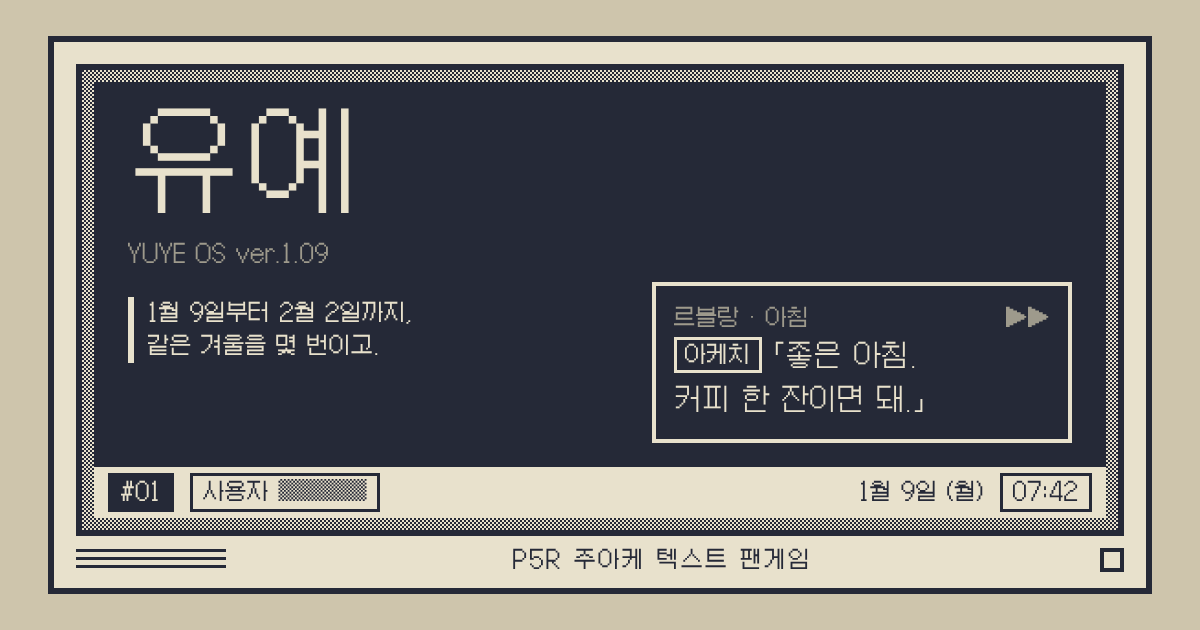
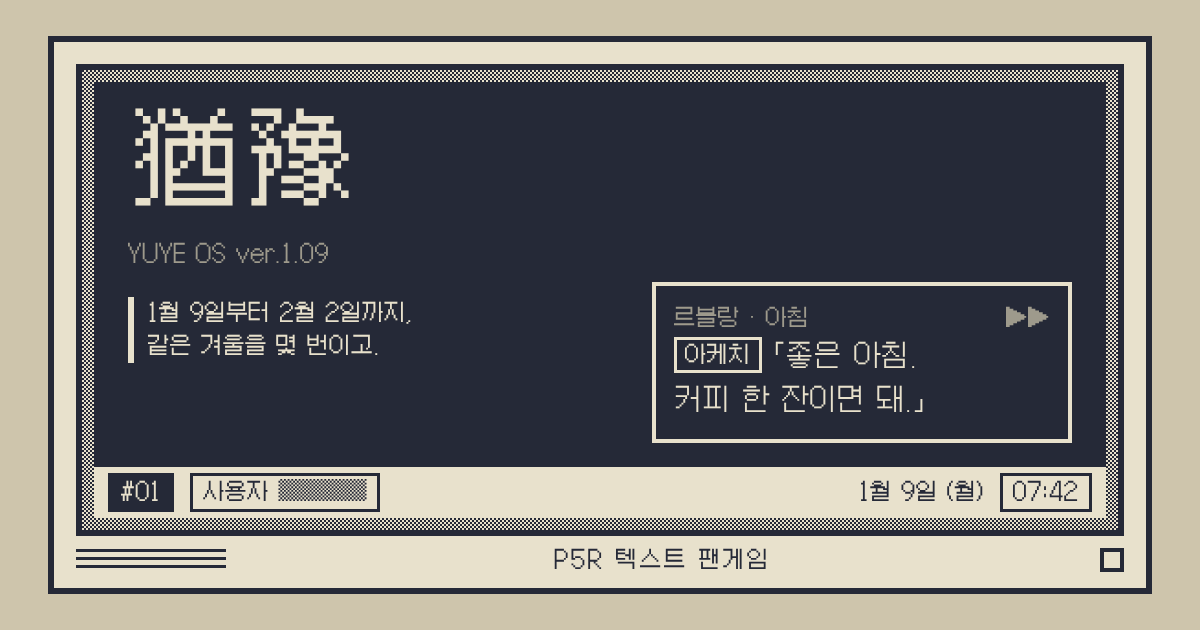
썸네일 제목 한자 표기, 소개 문구 수정
Claude-Session: https://claude.ai/code/session_01B3xQ3ReCgyZY5NQ2NGZsHB

Changed region(s): [[0.0925, 0.1508, 0.3083, 0.3317], [0.4317, 0.8444, 0.6783, 0.9048]]

diff --git a/index.html b/index.html
@@ -2,19 +2,19 @@
 <html lang="ko">
 <meta charset="utf-8">
 <meta name="viewport" content="width=device-width, initial-scale=1, viewport-fit=cover">
-<meta name="description" content="P5R 3학기 주아케 텍스트 팬게임. 1월 9일부터 2월 2일까지, 같은 겨울을 몇 번이고. (약 30분)">
+<meta name="description" content="P5R 3학기 텍스트 팬게임. 1월 9일부터 2월 2일까지, 같은 겨울을 몇 번이고. (약 30분)">
 <meta property="og:type" content="website">
 <meta property="og:site_name" content="유예">
-<meta property="og:title" content="유예">
-<meta property="og:description" content="P5R 3학기 주아케 텍스트 팬게임. 1월 9일부터 2월 2일까지, 같은 겨울을 몇 번이고. (약 30분)">
+<meta property="og:title" content="猶豫 (유예)">
+<meta property="og:description" content="P5R 3학기 텍스트 팬게임. 1월 9일부터 2월 2일까지, 같은 겨울을 몇 번이고. (약 30분)">
 <meta property="og:url" content="https://yuye-six.vercel.app/">
 <meta property="og:image" content="https://yuye-six.vercel.app/og.png">
 <meta property="og:image:width" content="1200">
 <meta property="og:image:height" content="630">
-<meta property="og:image:alt" content="1비트 레트로 컴퓨터 화면 속 「유예」 타이틀">
+<meta property="og:image:alt" content="1비트 레트로 컴퓨터 화면 속 「猶豫」 타이틀">
 <meta name="twitter:card" content="summary_large_image">
-<meta name="twitter:title" content="유예">
-<meta name="twitter:description" content="P5R 3학기 주아케 텍스트 팬게임. 1월 9일부터 2월 2일까지, 같은 겨울을 몇 번이고. (약 30분)">
+<meta name="twitter:title" content="猶豫 (유예)">
+<meta name="twitter:description" content="P5R 3학기 텍스트 팬게임. 1월 9일부터 2월 2일까지, 같은 겨울을 몇 번이고. (약 30분)">
 <meta name="twitter:image" content="https://yuye-six.vercel.app/og.png">
 <title>유예</title>
 <meta name="claude:viewport-fit-sides" content="cover">
